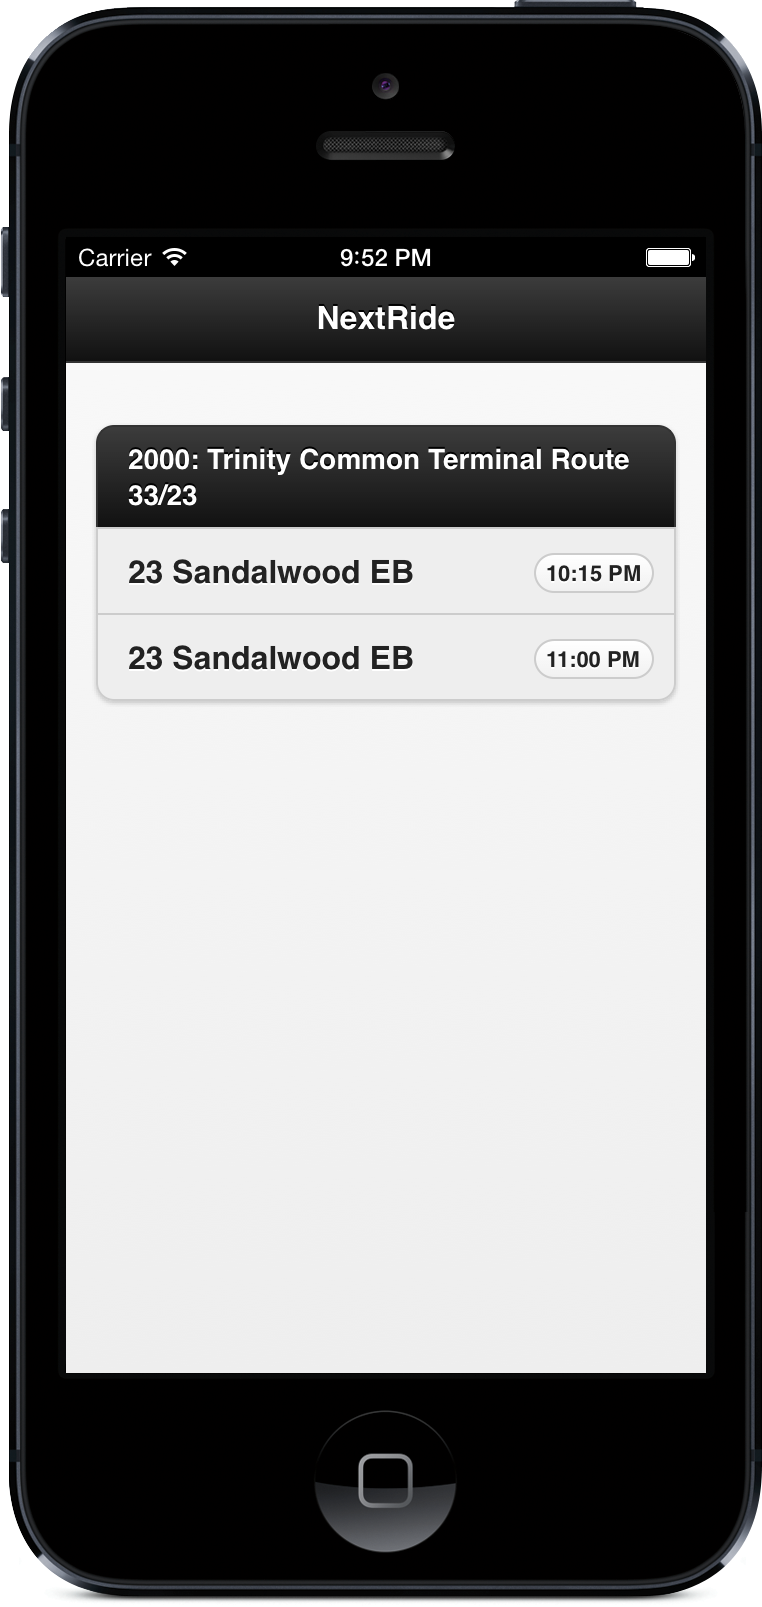
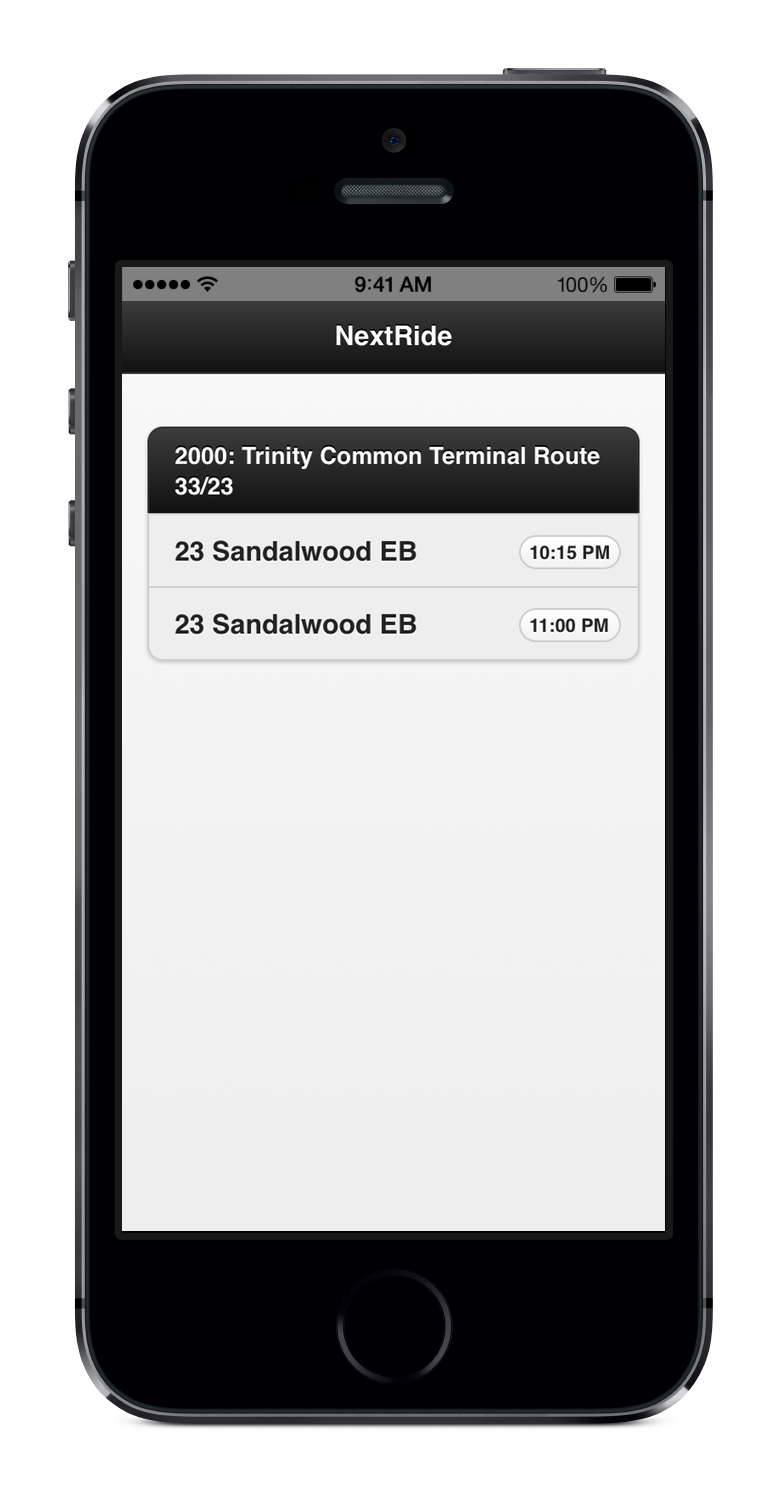
Update device images, realign portfolio thumbs

diff --git a/_includes/portfolio.html b/_includes/portfolio.html
@@ -10,8 +10,8 @@
 					<img src="img/{{ p.thumbnail }}.png" alt="{{ p.title }}" {% if p.thumbnail_tall %}width="75"{% endif %} class="img-responsive center-block">
 				</div>
 				{% endif %}
-				<div class="caption">
-					<h3 class="text-center thumbnail-title">{{ p.title }}</h3>
+				<div class="text-center caption">
+					<h3 class="thumbnail-title">{{ p.title }}</h3>
 					<p class="thumbnail-caption">{{ p.caption }}</p>
 					{% if p.live %}
 					<a href="{{ p.live }}" target="_blank" class="btn btn-success btn-block">Live</a>

diff --git a/css/styles.css b/css/styles.css
@@ -64,12 +64,20 @@ a {
 }
 
 @media only screen and (min-width: 768px) and (max-width: 991px) {
+	.thumbnail-img {
+		min-height: 11em;
+	}
+
 	.thumbnail-caption {
-		min-height: 4em;
+		min-height: 5em;
 	}
 }
 
 @media only screen and (min-width: 992px) and (max-width: 1199px) {
+	.thumbnail-img {
+		min-height: 11em;
+	}
+
 	.thumbnail-caption {
 		min-height: 3em;
 	}
@@ -77,7 +85,7 @@ a {
 
 @media only screen and (min-width: 1200px) {
 	.thumbnail-img {
-		min-height: 12em;
+		min-height: 11em;
 	}
 
 	.thumbnail-caption {
